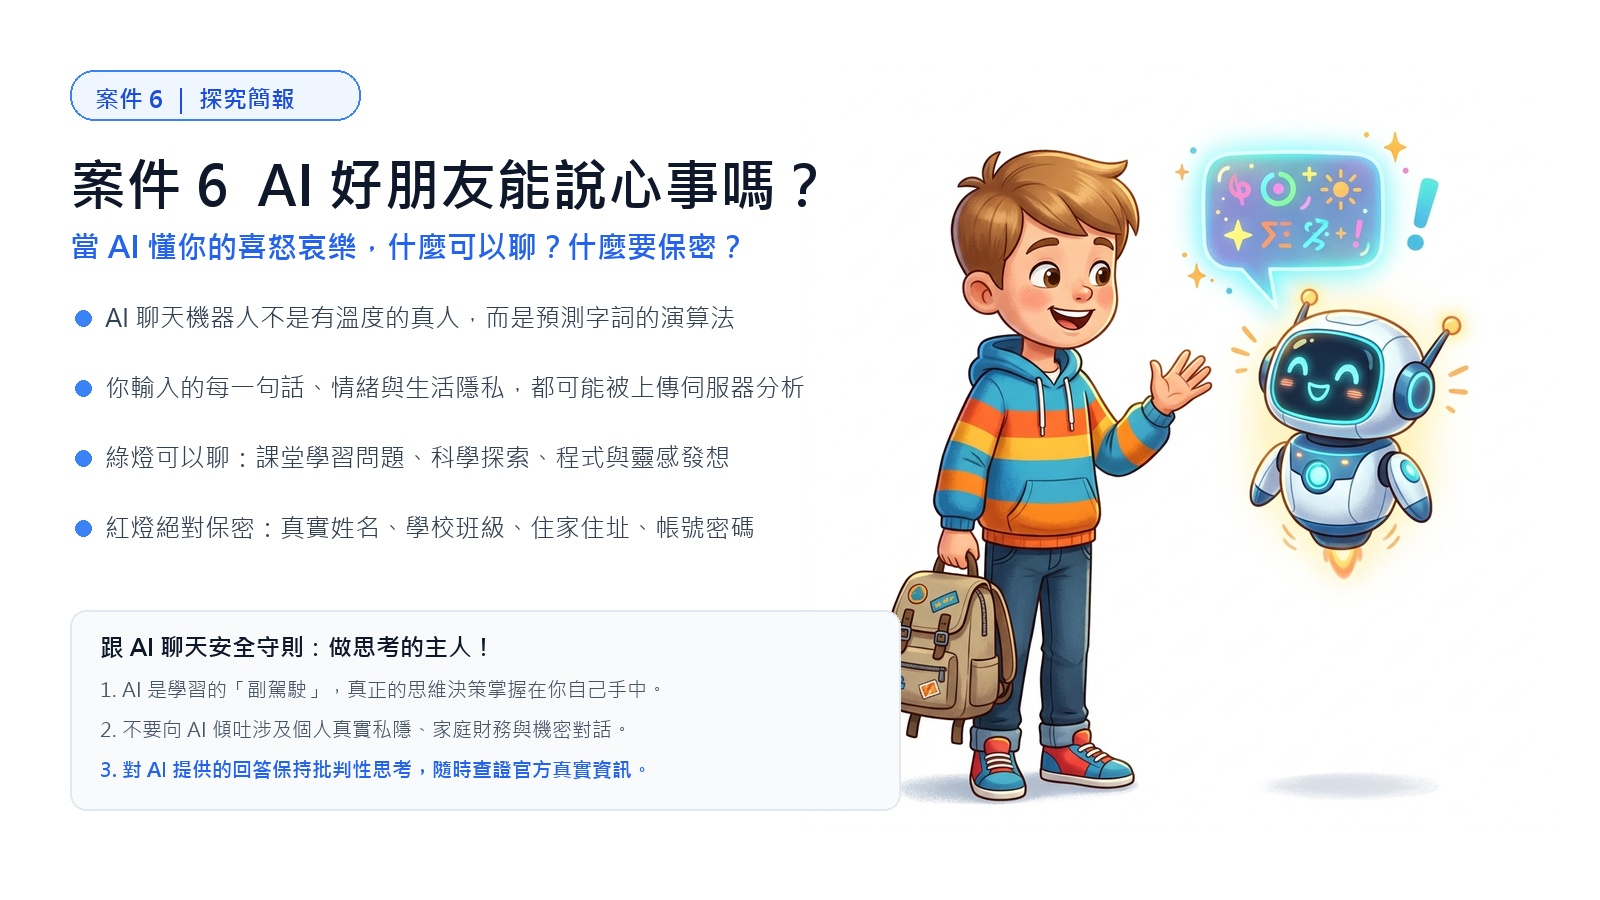
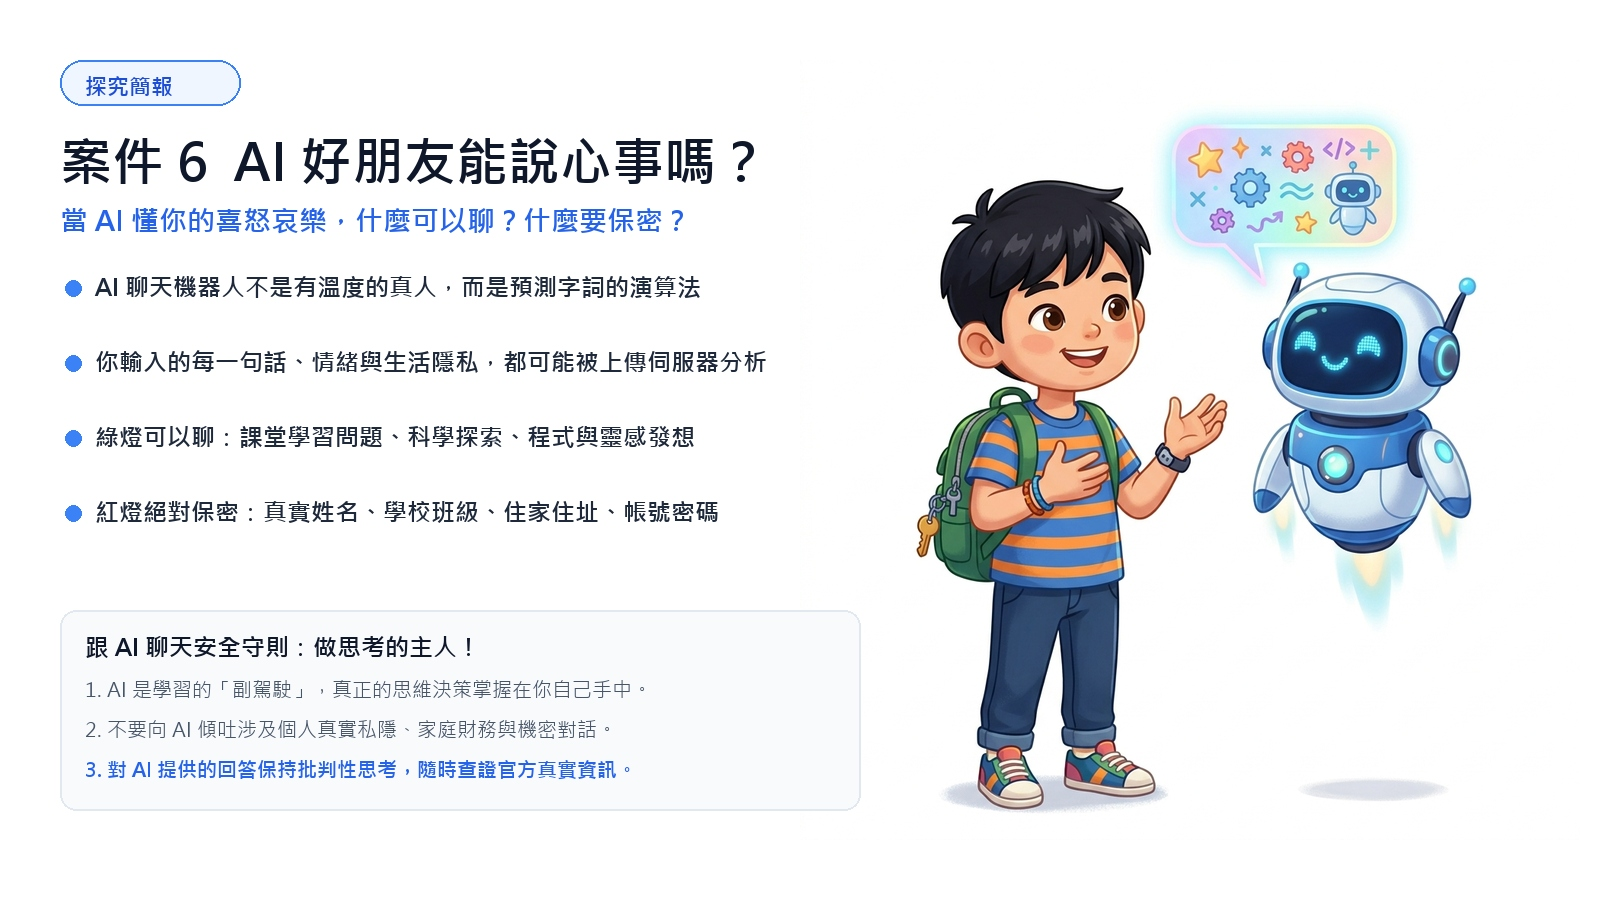
fix(ui): 案件7平板螢幕置入校園生活照並淨空腳邊區域，案件3/4文字卡片全面拉寬避免遮擋，案件6風格統一

diff --git a/units/g5-cyber-safety/index.html b/units/g5-cyber-safety/index.html
@@ -469,7 +469,7 @@
               feedback: '多因素驗證（MFA）必須跨越「知識、持有物、生物特徵」不同維度。兩道都是「記憶中的文字密碼」只是雙重密碼，一旦被鍵盤側錄或釣魚就會同時失守。'
             }
           ],
-          infographic: 'assets/i3_privacy_v2.jpg?v=20261023f',
+          infographic: 'assets/i3_privacy_v3.jpg?v=20261023_wider?v=20261023f',
           teacherTips: ['舊說法「每三個月換密碼」已更新：現在的建議是用長密語、不重複使用，懷疑外洩才換，並開雙重驗證。', '提醒學生密碼破解計時器只輸入範例，不要輸入真的密碼。']
         },
         {
@@ -491,7 +491,7 @@
               feedback: '小額手續費是詐騙集團降低心防的誘餌，其真正目的是竊取卡片機密與簡訊 OTP 驗證碼，隨後在海外發動數萬元的盜刷。'
             }
           ],
-          infographic: 'assets/i4_net_v2.jpg?v=20261023f',
+          infographic: 'assets/i4_net_v3.jpg?v=20261023_wider?v=20261023f',
           teacherTips: ['翔翔案例的討論題保留：電腦為什麼會這樣？如果是你，會不會點表哥的連結？', '原「牛刀小試」兩題已改寫成上面的想一想（天堂遊戲郵件、即時通 → 遊戲寶物私訊、LINE 借點數）。']
         },
         {
@@ -524,7 +524,7 @@
         {
           title: '案件 6　跟 AI 聊天的秘密',
           text: 'AI 聊天機器人本質是<b>「大語言模型（LLM）的機率文字接龍」</b>，不是真實朋友。它可能產生「AI 幻覺」捏造假答案，輸入的對話也可能成為雲端訓練資料。善用它當激發靈感的副駕駛，保持查證，嚴守個資防線！',
-          slides: ['assets/final_case6.jpg?v=20261023_vivid', 'assets/b2_light.jpg'],
+          slides: ['assets/final_case6.jpg?v=20261023_3d_style?v=20261023_3d_style', 'assets/b2_light.jpg'],
           interactive: GAMES.chatLight,
           quizzes: [
             {
@@ -555,7 +555,7 @@
         {
           title: '案件 7　搞笑貼圖風波',
           text: '每個人都有<b>肖像權</b>。用 AI 改別人的照片前，先問三個問題：本人同意了嗎？對方看到會難過嗎？傳出去收得回來嗎？',
-          slides: ['assets/final_case7.jpg?v=20261023_vivid'],
+          slides: ['assets/final_case7.jpg?v=20261023_screen_fixed?v=20261023_screen_fixed'],
           interactive: GAMES.debate,
           quizzes: [
             {
@@ -581,7 +581,7 @@
               feedback: '數位資料具有「零成本無限複製」的本質，你永遠無法向所有接收者收回所有權限。'
             }
           ],
-          infographic: 'assets/i7_photo_v3.jpg',
+          infographic: 'assets/i7_photo_v3.jpg?v=20261023_screen_fixed',
           teacherTips: ['站隊辯論：教室兩邊分「同意／不同意」，學生走過去，再各請兩位說理由。允許學生聽完後換邊，並說明為什麼改變想法。']
         },
         {
